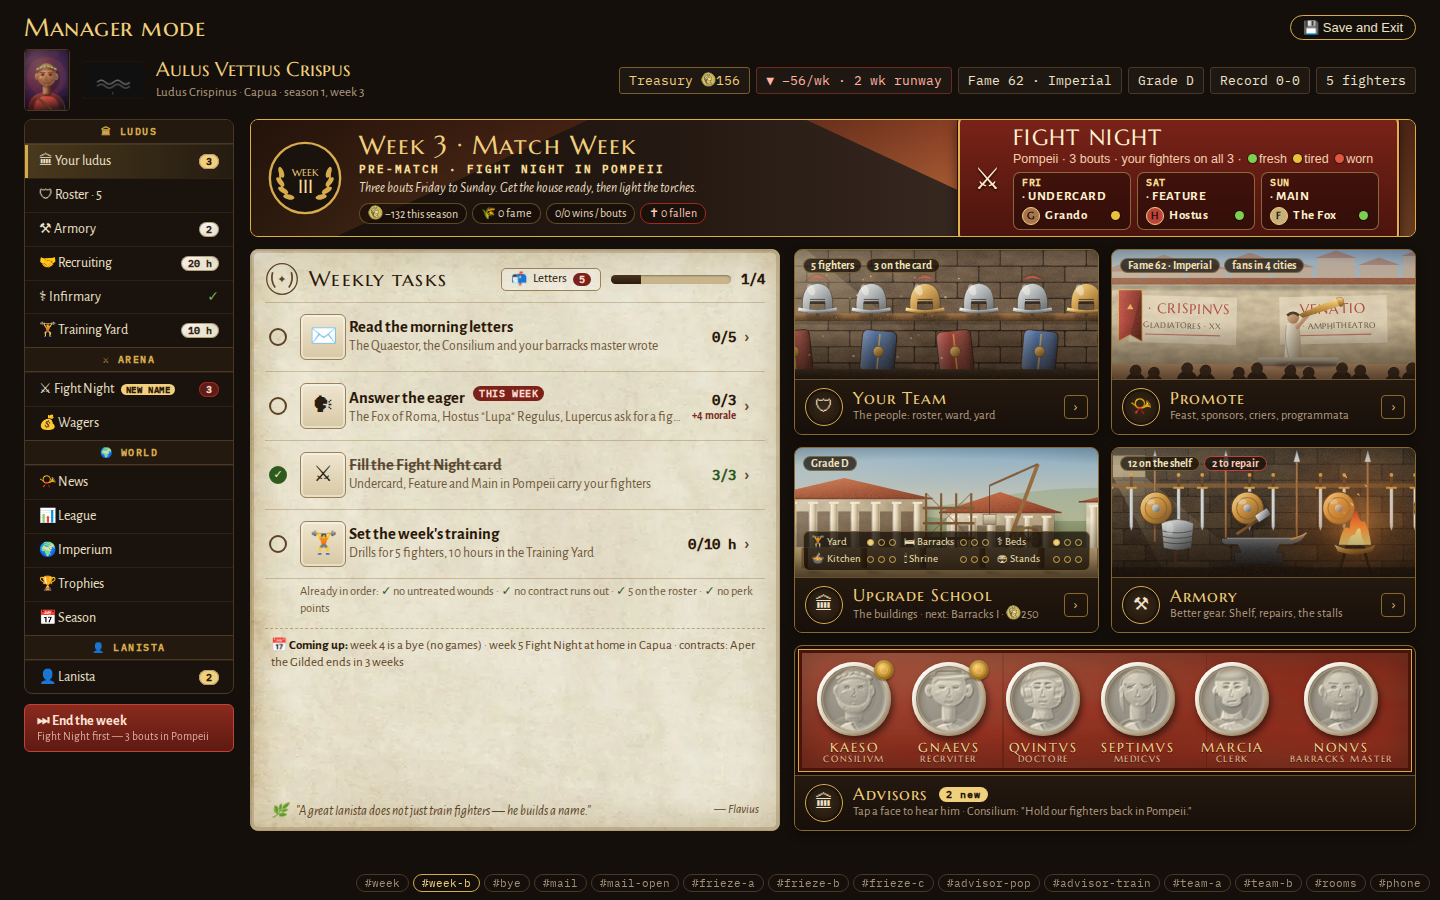
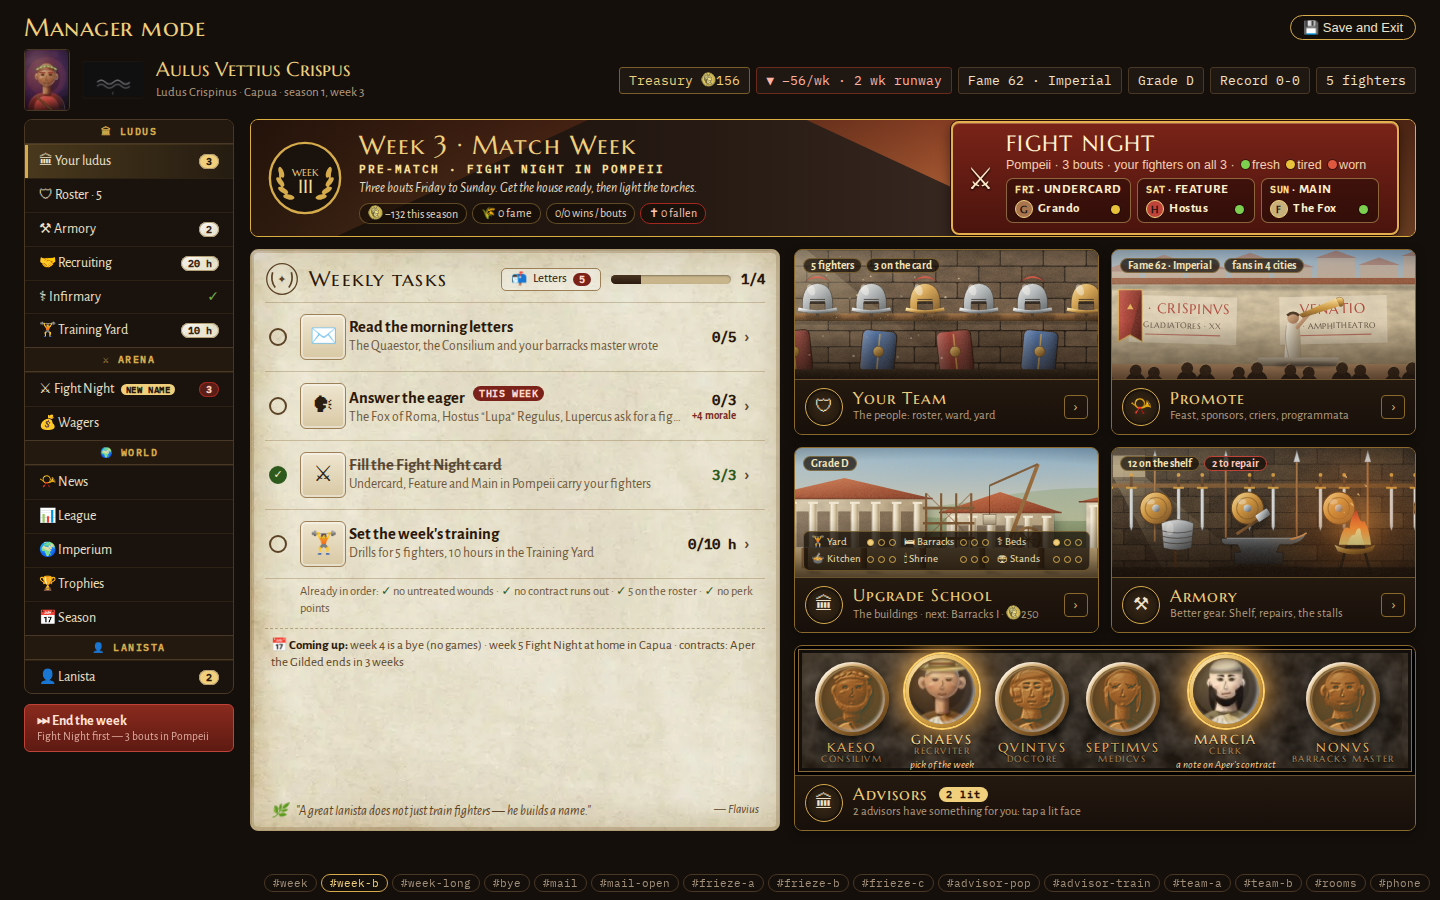
mock100: bronze frieze lights up, long task list [skip ci]
Claude-Session: https://claude.ai/code/session_01BLtNGuDrMd265uhsDUPs5S

Changed region(s): [[0.5312, 0.7156, 1.0, 0.9022], [0.6562, 0.1244, 0.9688, 0.28], [0.1875, 0.9644, 0.3438, 0.9956]]

diff --git a/tools/plans/mock100/ludus.html b/tools/plans/mock100/ludus.html
@@ -398,6 +398,31 @@ body.fz-c .frieze .clip .ring img{content:var(--bz)}
 body.fz-c .frieze .clip b{color:#e8b860;text-shadow:0 1px 0 #000}body.fz-c .frieze .clip small{color:#a88a5a}
 body.fz-c .frieze .clip .wax{background:radial-gradient(circle at 38% 34%,#e2584a,#8a1a10 72%)}
 @media (max-width:600px){.fnbtn .lg,.fnbtn .days .bc .tn{display:none}body.s-week-b .trow .ti{width:34px;height:34px;font-size:17px}body.s-week-b .trow{padding:8px 4px}.fnbtn .days{flex-wrap:nowrap;width:100%}.fnbtn .days .bc{min-width:0;flex:1;padding:3px 5px}.fnbtn .days .bc span{font-size:11.5px;gap:3px}.fnbtn .days .bc u{width:15px;height:15px;font-size:9px}.fnbtn small .fd,.fnbtn small{font-size:11.5px}}
+
+/* ---------- round 6 ---------- */
+.fnbtn .days .bc em .tn{display:inline}
+/* bronze frieze by default; an advisor with something for you LIGHTS UP: colour portrait + warm glow + a tiny label */
+.clip .note{font:italic 11px/1.1 var(--body);color:#ffd99a;text-shadow:0 1px 2px #000;margin-top:2px;white-space:nowrap}
+.clip.lit .ring{background:radial-gradient(circle at 32% 28%,#fff1c4,#e2b04e 50%,#8a5a1a)!important;box-shadow:0 0 0 2px #ffd36a,0 0 18px 6px rgba(255,190,90,.55),0 0 36px 10px rgba(255,160,60,.25)!important}
+body .frieze .clip.lit .ring img{content:var(--col)!important;filter:none}
+.clip.lit b{color:#ffe7a8!important}
+@media (prefers-reduced-motion:no-preference){.clip.lit .ring{animation:lit6 3.2s ease-in-out infinite}}
+@keyframes lit6{50%{box-shadow:0 0 0 2px #ffd36a,0 0 24px 9px rgba(255,190,90,.65),0 0 44px 14px rgba(255,160,60,.3)}}
+/* #week-long: the parchment keeps its height (= the tiles column) and scrolls inside */
+body:not(.s-week-long) .long-only{display:none!important}
+body.s-week-long .short-only,body.s-week-long .nextwk{display:none!important}
+body.s-week-long .lcol{position:relative}
+body.s-week-long .tasks{position:absolute;inset:0}
+body.s-week-long .tl{flex:1;min-height:0;overflow:auto;-webkit-mask:linear-gradient(#000 85%,transparent);mask:linear-gradient(#000 85%,transparent);padding-bottom:30px;scrollbar-width:thin}
+body.s-week-long .trow{padding:6px 4px}body.s-week-long .trow .ti{width:40px;height:40px;font-size:20px}body.s-week-long .trow .tx b{font-size:15.5px}body.s-week-long .trow .tx>span{font-size:13px}
+.more{align-self:center;margin:-22px 0 2px;position:relative;z-index:2;font:700 12px var(--body);color:#2a1708;background:#f0e2be;border:1px solid #9c8058;border-radius:12px;padding:2px 12px;box-shadow:0 2px 4px rgba(60,40,20,.3);cursor:pointer}
+@media (max-width:600px){
+ body.s-week-long .tasks{position:static;height:560px}
+ body.s-week-long .trow .ti{width:34px;height:34px;font-size:17px}
+ .fnbtn .days .bc em .tn{display:none}
+ .fz{gap:2px}.clip{flex:1 1 0;min-width:0;padding:2px 0}.clip .note{white-space:normal;text-align:center;font-size:9px;line-height:1.1}
+ .thd h2{font-size:16px}
+}
 </style></head>
 <body>
 <div class="app">
@@ -460,10 +485,10 @@ body.fz-c .frieze .clip .wax{background:radial-gradient(circle at 38% 34%,#e2584
       <svg class="wr" viewBox="0 0 40 40" aria-hidden="true"><circle cx="20" cy="20" r="18" fill="none" stroke="#5c4326" stroke-width="1.5"/><path d="M12 30q-6-8-3-18M28 30q6-8 3-18" stroke="#5c4326" stroke-width="2" fill="none"/><text x="20" y="25" text-anchor="middle" font-size="13" fill="#5c4326">✦</text></svg>
       <h2>Weekly tasks</h2><span class="sp"></span>
       <span class="mailbtn" title="All letters (opens the letters drawer)">📬 <span>Letters</span> <b class="week-only">5</b><b class="bye-only">3</b></span>
-      <span class="bar"><i class="week-only" style="width:25%"></i><i class="bye-only" style="width:0%"></i></span><span class="n"><span class="week-only">1/4</span><span class="bye-only">0/6</span></span>
+      <span class="bar"><i class="week-only short-only" style="width:25%"></i><i class="long-only" style="width:8%"></i><i class="bye-only" style="width:0%"></i></span><span class="n"><span class="week-only short-only">1/4</span><span class="long-only">1/12</span><span class="bye-only">0/6</span></span>
      </div>
      <!-- week 3: a light week, 4 tasks -->
-     <div class="week-only">
+     <div class="week-only short-only">
       <div class="trow"><span class="ck"></span><span class="ti">✉</span><span class="tx"><b>Read the morning letters</b><span>The Quaestor, the Consilium and your barracks master wrote</span></span><span class="cnt">0/5</span><span class="go">›</span></div>
       <div class="trow"><span class="ck"></span><span class="ti">🗣</span><span class="tx"><b>Answer the eager <span class="due">this week</span></b><span>The Fox of Roma, Hostus "Lupa" Regulus, Lupercus ask for a fight</span></span><span class="cnt">0/3<small>+4 morale</small></span><span class="go">›</span></div>
       <div class="trow done"><span class="ck">✓</span><span class="ti">⚔</span><span class="tx"><b>Fill the Fight Night card</b><span>Undercard, Feature and Main in Pompeii carry your fighters</span></span><span class="cnt">3/3</span><span class="go">›</span></div>
@@ -471,6 +496,9 @@ body.fz-c .frieze .clip .wax{background:radial-gradient(circle at 38% 34%,#e2584
       <div class="ok">Already in order: <b>✓</b> no untreated wounds · <b>✓</b> no contract runs out · <b>✓</b> 5 on the roster · <b>✓</b> no perk points</div>
       <div class="nextwk">📅 <b>Coming up:</b> week 4 is a bye (no games) · week 5 Fight Night at home in Capua · contracts: Aper the Gilded ends in 3 weeks</div>
      </div>
+     <!-- #week-long: 12 tasks, the parchment scrolls inside -->
+     <div class="long-only tl"><div class="trow"><span class="ck"></span><span class="ti">✉</span><span class="tx"><b>Read the morning letters</b><span>The Quaestor, the Consilium and your barracks master wrote</span></span><span class="cnt">0/5</span><span class="go">›</span></div><div class="trow"><span class="ck"></span><span class="ti">🗣</span><span class="tx"><b>Answer the eager <span class="due">this week</span></b><span>The Fox of Roma, Hostus "Lupa" Regulus, Lupercus ask for a fight</span></span><span class="cnt">0/3<small>+4 morale</small></span><span class="go">›</span></div><div class="trow done"><span class="ck">✓</span><span class="ti">⚔</span><span class="tx"><b>Fill the Fight Night card</b><span>Undercard, Feature and Main in Pompeii carry your fighters</span></span><span class="cnt">3/3</span><span class="go">›</span></div><div class="trow"><span class="ck"></span><span class="ti">🏋</span><span class="tx"><b>Set the week's training</b><span>Drills for 5 fighters, 10 hours in the Training Yard</span></span><span class="cnt">0/10 h</span><span class="go">›</span></div><div class="trow"><span class="ck"></span><span class="ti">📜</span><span class="tx"><b>Renew Aper the Gilded <span class="due">by week 6</span></b><span>His contract ends in 3 weeks — he asks 34/wk</span></span><span class="cnt">0/1</span><span class="go">›</span></div><div class="trow"><span class="ck"></span><span class="ti">🤝</span><span class="tx"><b>Answer Ludus Severianus <span class="due">by week 4</span></b><span>Lupercus for Pompeia Ferreus + 25 coin</span></span><span class="cnt">0/1</span><span class="go">›</span></div><div class="trow"><span class="ck"></span><span class="ti">🎟</span><span class="tx"><b>The Golden Trident Challenge <span class="due">this week</span></b><span>The editors invite one fighter</span></span><span class="cnt">0/1</span><span class="go">›</span></div><div class="trow"><span class="ck"></span><span class="ti">🗡</span><span class="tx"><b>Domitia Severa mocks your training <span class="due">this week</span></b><span>Answer in kind: +1 fame, +4 rivalry</span></span><span class="cnt">0/1</span><span class="go">›</span></div><div class="trow"><span class="ck"></span><span class="ti">🔨</span><span class="tx"><b>Mend the damaged gear</b><span>2 pieces on the shelf · 🔨 Repair all · 18 coin</span></span><span class="cnt">0/2</span><span class="go">›</span></div><div class="trow"><span class="ck"></span><span class="ti">🎓</span><span class="tx"><b>Learn from the season</b><span>2 perk points wait on the lanista's tree</span></span><span class="cnt">0/2</span><span class="go">›</span></div><div class="trow"><span class="ck"></span><span class="ti">★</span><span class="tx"><b>Meet the Recruiter's pick <span class="due new">new</span></b><span>Galba Bone-Breaker · Soldier · ~B+ · asks 38/wk</span></span><span class="cnt">0/1</span><span class="go">›</span></div><div class="trow"><span class="ck"></span><span class="ti">🖌</span><span class="tx"><b>Keep the name on the walls</b><span>Your programmata in Capua run out this week</span></span><span class="cnt">0/1</span><span class="go">›</span></div><div class="ok">Already in order: <b>✓</b> no untreated wounds · <b>✓</b> 5 on the roster</div></div>
+     <div class="more long-only">▾ 3 more</div>
      <!-- week 4, bye: 6 tasks -->
      <div class="bye-only">
       <div class="trow"><span class="ck"></span><span class="ti">✉</span><span class="tx"><b>Read the morning letters</b><span>The bye letter, the Quaestor, a rival's taunt</span></span><span class="cnt">0/3</span><span class="go">›</span></div>
@@ -498,8 +526,8 @@ body.fz-c .frieze .clip .wax{background:radial-gradient(circle at 38% 34%,#e2584
       <div class="cap"><i class="em">🏛</i><span><b>Upgrade School</b><span>The buildings · next: Barracks I · <img class="coin" src="../../../assets/coin.webp" alt="">250</span></span><i class="chev">›</i></div></div>
      <div class="tile"><div class="art"><div class="bg" data-sc="armory"></div><div class="st"><span>12 on the shelf</span><span class="w">2 to repair</span></div></div>
       <div class="cap"><i class="em">⚒</i><span><b>Armory</b><span>Better gear. Shelf, repairs, the stalls</span></span><i class="chev">›</i></div></div>
-     <div class="tile wide adv"><div class="art frieze"><div class="fz"><button class="clip" data-adv="0" type="button"><span class="ring"><img src="ludus_img/marble_0.png" style="--bz:url(ludus_img/bronze_0.png)" alt=""><i class=wax></i></span><b>KAESO</b><small>CONSILIVM</small></button><button class="clip" data-adv="1" type="button"><span class="ring"><img src="ludus_img/marble_1.png" style="--bz:url(ludus_img/bronze_1.png)" alt=""><i class=wax></i></span><b>GNAEVS</b><small>RECRVITER</small></button><button class="clip" data-adv="2" type="button"><span class="ring"><img src="ludus_img/marble_2.png" style="--bz:url(ludus_img/bronze_2.png)" alt=""></span><b>QVINTVS</b><small>DOCTORE</small></button><button class="clip" data-adv="3" type="button"><span class="ring"><img src="ludus_img/marble_3.png" style="--bz:url(ludus_img/bronze_3.png)" alt=""></span><b>SEPTIMVS</b><small>MEDICVS</small></button><button class="clip" data-adv="4" type="button"><span class="ring"><img src="ludus_img/marble_4.png" style="--bz:url(ludus_img/bronze_4.png)" alt=""></span><b>MARCIA</b><small>CLERK</small></button><button class="clip" data-adv="5" type="button"><span class="ring"><img src="ludus_img/marble_5.png" style="--bz:url(ludus_img/bronze_5.png)" alt=""></span><b>NONVS</b><small>BARRACKS MASTER</small></button></div></div>
-      <div class="cap"><i class="em">🏛</i><span><b>Advisors <i class="cnt">2 new</i></b><span class="week-only">Tap a face to hear him · Consilium: "Hold our fighters back in Pompeii."</span><span class="bye-only">Tap a face to hear him · Doctore: "A bye is a gift. Use the extra hours."</span></span></div></div>
+     <div class="tile wide adv"><div class="art frieze"><div class="fz"><button class="clip" data-adv="0" type="button"><span class="ring"><img src="ludus_img/marble_0.png" style="--bz:url(ludus_img/bronze_0.png);--col:url(ludus_img/face_0.png)" alt=""></span><b>KAESO</b><small>CONSILIVM</small></button><button class="clip lit" data-adv="1" type="button"><span class="ring"><img src="ludus_img/marble_1.png" style="--bz:url(ludus_img/bronze_1.png);--col:url(ludus_img/face_1.png)" alt=""></span><b>GNAEVS</b><small>RECRVITER</small><em class="note">pick of the week</em></button><button class="clip" data-adv="2" type="button"><span class="ring"><img src="ludus_img/marble_2.png" style="--bz:url(ludus_img/bronze_2.png);--col:url(ludus_img/face_2.png)" alt=""></span><b>QVINTVS</b><small>DOCTORE</small></button><button class="clip" data-adv="3" type="button"><span class="ring"><img src="ludus_img/marble_3.png" style="--bz:url(ludus_img/bronze_3.png);--col:url(ludus_img/face_3.png)" alt=""></span><b>SEPTIMVS</b><small>MEDICVS</small></button><button class="clip lit" data-adv="4" type="button"><span class="ring"><img src="ludus_img/marble_4.png" style="--bz:url(ludus_img/bronze_4.png);--col:url(ludus_img/face_4.png)" alt=""></span><b>MARCIA</b><small>CLERK</small><em class="note">a note on Aper's contract</em></button><button class="clip" data-adv="5" type="button"><span class="ring"><img src="ludus_img/marble_5.png" style="--bz:url(ludus_img/bronze_5.png);--col:url(ludus_img/face_5.png)" alt=""></span><b>NONVS</b><small>BARRACKS MASTER</small></button></div></div>
+      <div class="cap"><i class="em">🏛</i><span><b>Advisors <i class="cnt">2 lit</i></b><span class="week-only">2 advisors have something for you: tap a lit face</span><span class="bye-only">Tap a face to hear him · Doctore: "A bye is a gift. Use the extra hours."</span></span></div></div>
     </div>
    </div>
 
@@ -596,11 +624,11 @@ body.fz-c .frieze .clip .wax{background:radial-gradient(circle at 38% 34%,#e2584
   <span class="req">Level 2 gives <span class="gain">+4 recruiter's hours (24 h) · grades 20% sharper</span>. Levels 3–5 are earned by deeds.</span></div>
 </div>
 <div id="phoneFrame"><iframe title="phone" src="ludus.html#week"></iframe></div>
-<div class="statebar"><a href="#week">#week</a><a href="#week-b">#week-b</a><a href="#bye">#bye</a><a href="#mail">#mail</a><a href="#mail-open">#mail-open</a><a href="#frieze-a">#frieze-a</a><a href="#frieze-b">#frieze-b</a><a href="#frieze-c">#frieze-c</a><a href="#advisor-pop">#advisor-pop</a><a href="#advisor-train">#advisor-train</a><a href="#team-a">#team-a</a><a href="#team-b">#team-b</a><a href="#rooms">#rooms</a><a href="#phone">#phone</a></div>
+<div class="statebar"><a href="#week">#week</a><a href="#week-b">#week-b</a><a href="#week-long">#week-long</a><a href="#bye">#bye</a><a href="#mail">#mail</a><a href="#mail-open">#mail-open</a><a href="#frieze-a">#frieze-a</a><a href="#frieze-b">#frieze-b</a><a href="#frieze-c">#frieze-c</a><a href="#advisor-pop">#advisor-pop</a><a href="#advisor-train">#advisor-train</a><a href="#team-a">#team-a</a><a href="#team-b">#team-b</a><a href="#rooms">#rooms</a><a href="#phone">#phone</a></div>
 <script src="ludus_scenes.js"></script>
 <script>
 document.querySelectorAll('[data-sc]').forEach(e=>e.innerHTML=SCENE99(e.dataset.sc,e.dataset.mode||'tile'));
-function st(){const h=(location.hash||'#week').slice(1);document.body.className=h.startsWith('frieze-')?'s-week-b fz-'+h.slice(7):'s-'+h;document.querySelectorAll('.statebar a').forEach(a=>a.classList.toggle('on',a.getAttribute('href')==='#'+h));
+function st(){const h=(location.hash||'#week').slice(1);document.body.className=(h.startsWith('frieze-')?'s-week-b fz-'+h.slice(7):h==='week-long'?'s-week-b s-week-long':'s-'+h)+(/frieze-[ab]/.test(h)?'':' fz-c');document.querySelectorAll('.statebar a').forEach(a=>a.classList.toggle('on',a.getAttribute('href')==='#'+h));
  document.querySelectorAll('.rail .t.a-on').forEach(t=>t.classList.toggle('on',h==='team-a'))}
 addEventListener('hashchange',st);st();
 document.querySelector('.mailbtn').onclick=()=>location.hash='#mail';

diff --git a/tools/plans/mock100/NOTES-ludus.md b/tools/plans/mock100/NOTES-ludus.md
@@ -111,3 +111,13 @@ Shots: `ludus_advisor-pop_1440.png`, `ludus_advisor-pop_390.png`, `ludus_advisor
   - `#week` now shows the same, so it differs from `#week-b` only in the parchment's stretch and the "Coming up" line.
 - **The "Coming up" line in `#week-b` is kept.** It fills the stretched parchment's empty bottom without crowding the tasks.
 Shots: `ludus_frieze-{a,b,c}_{1440,390}.png` (the 390 `_full` versions show the frieze), plus a re-take of `ludus_week(-b)_{1440,390}.png`.
+
+## ROUND 6 (2026-10-11)
+- **Frieze = (c) BRONZE, now the default** (`#frieze-a`/`-b` remain only for comparison). The wax seals are gone.
+  - An advisor with something for you LIGHTS UP: his bronze head becomes his colour portrait in a gold ring with a soft warm glow (it breathes gently, with no motion under Reduce motion).
+  - A tiny italic label under his name says what it is: GNAEVS "pick of the week", MARCIA "a note on Aper's contract".
+  - The other four stay bronze. The caption reads "2 advisors have something for you: tap a lit face", with a "2 lit" chip.
+- **`#week-long`: 12 tasks.** On desktop the parchment is pinned to the height of the tiles column, so the tiles never move; the list scrolls inside it.
+  - A soft fade at the bottom plus a "▾ 3 more" pill show there is more; the header reads 1/12.
+  - On the phone the parchment has a fixed 560 px height and scrolls inside, with the tiles below unchanged.
+Shots: `ludus_week-b_{1440,390}`, `ludus_week-long_{1440,390}` (plus the 390 `_full` versions).
